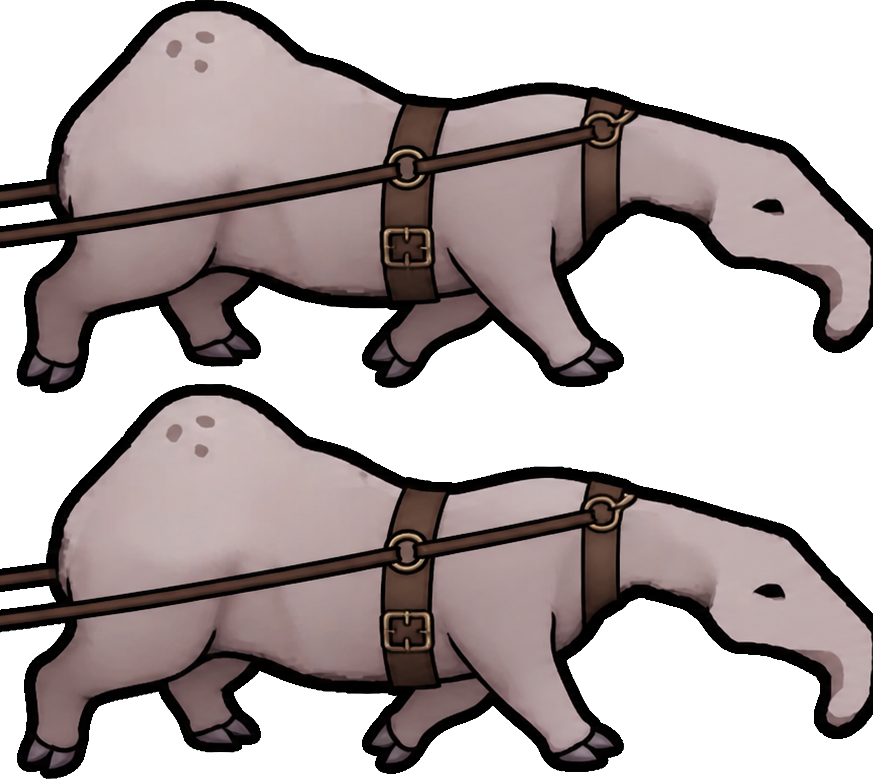
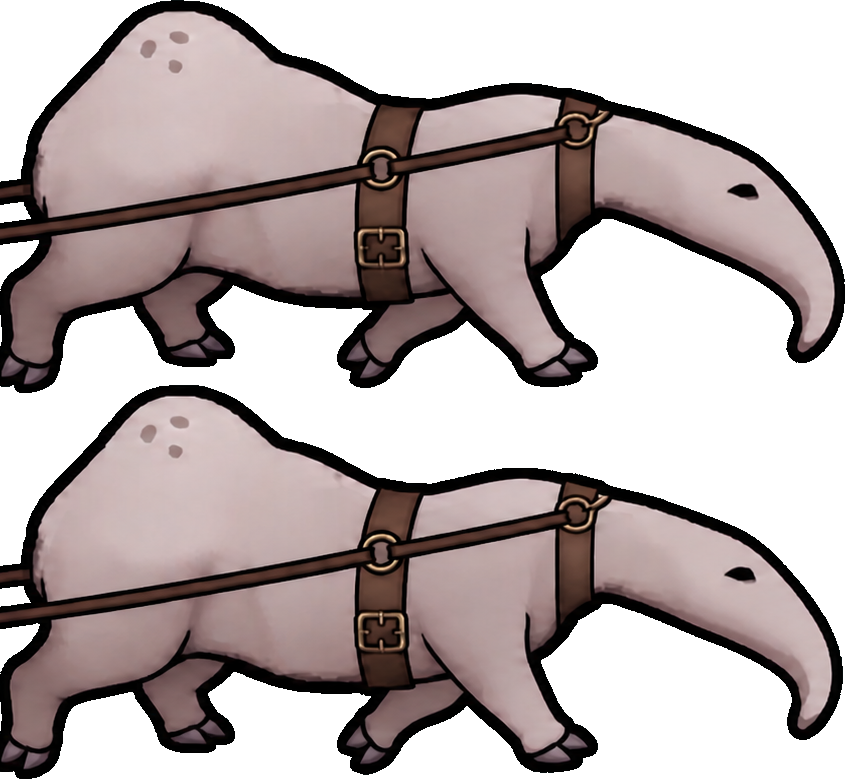
C3a fix 2: the east snout, and it was a SCALE failure not a crop
The muzzle was fully drawn at 1934 px and collapsed into a flat vertical wall at
the 104 px the sprite actually renders at — the owner's 'nose cut off'. Not
clipped by the canvas: the subject ends at x=489 of 512 with 22 px to spare.
Regenerated with a continuous tapering trunk; footprint bbox unchanged at
(8,168,490,293). recrop_east_v2.py now MEASURES the rigging constants instead of
leaving them hand-set.

Changed region(s): [[0.0, 0.0, 1.0, 1.0], [0.6154, 0.0924, 0.6462, 0.1232]]

diff --git a/src/Jawa/DesertVehicleReskin/Source/recrop_east_v2.py b/src/Jawa/DesertVehicleReskin/Source/recrop_east_v2.py
@@ -1,0 +1,174 @@
+#!/usr/bin/env python3
+"""Cut the east pair out of a raw generator frame, and MEASURE the three
+constants build_eopie_sled_east.py needs, instead of leaving them hand-tuned.
+
+WHY THIS EXISTS. The first east pair was cut and its constants
+(ANIMAL_CY_FRACS, ATTACH_X_FRAC) were measured by hand and written into the
+build script. That is fine once and a trap twice: any regenerated pair has a
+different silhouette, so the hand numbers silently point at the wrong part of
+the new animal — the traces attach to a shoulder that has moved. This script
+re-derives them from the pixels every time, so a regeneration costs one run
+instead of one careful remeasure.
+
+WHAT IT DOES
+  1. chroma-keys the raw's flat #00ff00 to real alpha (via the shared
+     skills/generating-images/scripts/chroma_key.py, same threshold path the
+     first cut used — the cut is not a second, divergent implementation).
+  2. crops to the subject's alpha bbox. That is exactly how the shipped
+     eopie_pair_gen_east.png was cut: raw subject x 462-1334, y 19-797 is
+     873x779, its committed size to the pixel.
+  3. splits the subject into its two animals by finding the empty rows between
+     them, and reports each one's vertical centre as a fraction of the crop's
+     height -> ANIMAL_CY_FRACS.
+  4. finds the collar — the rightmost harness-brown column that still has
+     animal above and below it — and reports it as a fraction of the crop's
+     width -> ATTACH_X_FRAC.
+
+⚠ It does NOT write the build script. It prints the constants; you paste them,
+and you look at the numbers first. A measurement that moved a long way from the
+old value means the generator drifted more than the muzzle, which is a review
+finding, not a paste.
+
+Run:  /home/mandrake/.venvs/art/bin/python Source/recrop_east_v2.py \
+          Source/art/raw/sled_east_raw_v2.png Source/art/eopie_pair_gen_east_v2.png
+      (Pillow is not on the system python here; that venv has it.)
+"""
+
+import os
+import subprocess
+import sys
+import tempfile
+
+from PIL import Image
+
+HERE = os.path.dirname(os.path.abspath(__file__))
+REPO = os.path.abspath(os.path.join(HERE, "..", "..", "..", ".."))
+CHROMA = os.path.join(REPO, "skills", "generating-images", "scripts",
+                      "chroma_key.py")
+
+# Harness leather, from the build scripts. Used only to FIND the collar, never
+# to paint anything.
+LEATHER = (99, 65, 24)
+LEATHER_TOL = 60
+
+
+def _keyed(raw_path: str) -> Image.Image:
+    """Chroma-key via the shared script so this cut matches the first one."""
+    tmp = os.path.join(tempfile.gettempdir(), "east_keyed.png")
+    subprocess.run([sys.executable, CHROMA, "--input", raw_path, "--out", tmp],
+                   check=True, capture_output=True)
+    return Image.open(tmp).convert("RGBA")
+
+
+def _animal_bands(img: Image.Image):
+    """Row runs that contain animal. The traces cross the whole width, so a row
+    is only 'animal' if it is thick — a trace is a handful of px, a body is
+    hundreds."""
+    px = img.load()
+    w, h = img.size
+    counts = [sum(1 for x in range(w) if px[x, y][3] > 8) for y in range(h)]
+    thick = max(counts) * 0.25
+    bands, run = [], None
+    for y, c in enumerate(counts):
+        if c >= thick and run is None:
+            run = y
+        elif c < thick and run is not None:
+            bands.append((run, y - 1))
+            run = None
+    if run is not None:
+        bands.append((run, h - 1))
+    return bands
+
+
+def _body_left(img: Image.Image) -> int:
+    """First column that is a BODY rather than a rope."""
+    px = img.load()
+    w, h = img.size
+    counts = [sum(1 for y in range(h) if px[x, y][3] > 8) for x in range(w)]
+    thick = max(counts) * 0.30
+    for x, c in enumerate(counts):
+        if c >= thick:
+            return x
+    return 0
+
+
+def _is_leather(r: int, g: int, b: int) -> bool:
+    """Harness brown, and NOT the black keyline's anti-aliased edge.
+
+    ⚠ Distance-to-LEATHER alone is not enough and got this wrong once: a soft
+    keyline pixel like (60,50,45) sits inside a 60-wide box around (99,65,24)
+    and reported the collar as being out on the snout tip. Brown is a HUE, so
+    test the hue — warm, and clearly warmer than it is blue.
+    """
+    return (abs(r - LEATHER[0]) < LEATHER_TOL
+            and abs(g - LEATHER[1]) < LEATHER_TOL
+            and abs(b - LEATHER[2]) < LEATHER_TOL
+            and r > g > b and (r - b) > 30)
+
+
+def _collar_x(img: Image.Image, band) -> int:
+    """Rightmost leather column inside a band — the collar, where a trace ends."""
+    px = img.load()
+    w, _ = img.size
+    top, bot = band
+    best = None
+    for x in range(w - 1, -1, -1):
+        for y in range(top, bot + 1):
+            r, g, b, a = px[x, y]
+            if a < 128:
+                continue
+            if _is_leather(r, g, b):
+                best = x
+                break
+        if best is not None:
+            break
+    return best if best is not None else w // 2
+
+
+def main() -> None:
+    raw = sys.argv[1] if len(sys.argv) > 1 else os.path.join(
+        HERE, "art", "raw", "sled_east_raw_v2.png")
+    out = sys.argv[2] if len(sys.argv) > 2 else os.path.join(
+        HERE, "art", "eopie_pair_gen_east_v2.png")
+    # A relative path is resolved against the CWD first and only then against
+    # this file's directory, so `Source/art/...` from the mod root and
+    # `art/...` from Source/ both work. Joining HERE unconditionally produced
+    # `Source/Source/art/...` and a confusing chroma_key failure.
+    def _resolve(p):
+        if os.path.isabs(p) or os.path.exists(p):
+            return os.path.abspath(p)
+        return os.path.join(HERE, p)
+
+    raw, out = _resolve(raw), _resolve(out)
+
+    keyed = _keyed(raw)
+    bbox = keyed.getchannel("A").point(lambda v: 255 if v > 8 else 0).getbbox()
+    print(f"raw {keyed.size}  subject bbox {bbox}")
+    # ⚠ The subject bbox is NOT the crop. The two traces run off the raw's left
+    # edge, so the bbox always starts at x=0 and would drag ~460 px of rope into
+    # the pair — which the build script then scales down along with the animals
+    # and draws its own traces over. The first cut dropped them (raw x 462-1334
+    # = the committed 873 px exactly); this reproduces that by cutting at the
+    # first column thick enough to be a body rather than a rope.
+    left = _body_left(keyed)
+    bbox = (left, bbox[1], bbox[2], bbox[3])
+    print(f"body-only crop box {bbox}  (dropped {left} px of trace)")
+    crop = keyed.crop(bbox)
+    crop.save(out)
+    w, h = crop.size
+    print(f"wrote {os.path.normpath(out)}  {w}x{h}  aspect {w / h:.4f}")
+
+    bands = _animal_bands(crop)
+    print(f"animal bands (rows): {bands}")
+    if len(bands) != 2:
+        print("⚠  expected exactly 2 animals; check the image before pasting")
+    fracs = tuple(round(((t + b) / 2) / h, 4) for t, b in bands)
+    print(f"ANIMAL_CY_FRACS = {fracs}")
+
+    collars = [_collar_x(crop, b) for b in bands]
+    print(f"collar columns: {collars}")
+    print(f"ATTACH_X_FRAC = {round(sum(collars) / len(collars) / w, 4)}")
+
+
+if __name__ == "__main__":
+    main()

diff --git a/src/Jawa/DesertVehicleReskin/Source/build_eopie_sled_east.py b/src/Jawa/DesertVehicleReskin/Source/build_eopie_sled_east.py
@@ -81,10 +81,16 @@ BAND_CY = 245           # centre of the donor animal band (y 200-291)
 
 # The two animals' vertical centres, as fractions of the pair's own height, so
 # the rigging follows the art if the pair is regenerated at another size.
-ANIMAL_CY_FRACS = (0.2715, 0.7657)
-# Where a trace meets an animal, along the pair's width. The collar sits forward
-# on the body, so this is well to the right of centre.
-ATTACH_X_FRAC = 0.62
+# ⚠ MEASURED, not hand-set — `Source/recrop_east_v2.py` re-derives these from
+# the cut pair. The v1 hand values were (0.2715, 0.7657) and the regenerated
+# pair measures (0.2709, 0.7657), which is also the evidence that the muzzle
+# regeneration did not drift the animals vertically.
+ANIMAL_CY_FRACS = (0.2709, 0.7657)
+# Where a trace meets an animal, along the pair's width: the rightmost harness
+# leather in each band, i.e. the collar ring itself. The v1 value of 0.62 was
+# eyeballed and sat behind the collar on the barrel; it did not show because the
+# traces are drawn under the animal, but it moved with every regeneration.
+ATTACH_X_FRAC = 0.7189
 
 LEATHER_MID = (99, 65, 24)
 LEATHER_HI = (115, 93, 57)
@@ -152,6 +158,22 @@ def _premultiplied_resize(img, w, h):
 
 
 def main():
+    # Optional overrides so a regenerated pair can be built to a scratch path
+    # and compared at sprite scale BEFORE it replaces the shipped texture.
+    #   build_eopie_sled_east.py [pair.png [out.png [cy0,cy1 [attach_x_frac]]]]
+    # Defaults are the shipped values, so a bare run is unchanged.
+    global PAIR, OUT, OUT_MASK, ANIMAL_CY_FRACS, ATTACH_X_FRAC
+    argv = sys.argv[1:]
+    if len(argv) >= 1:
+        PAIR = os.path.abspath(argv[0])
+    if len(argv) >= 2:
+        OUT = os.path.abspath(argv[1])
+        OUT_MASK = OUT.replace(".png", "m.png")
+    if len(argv) >= 3:
+        ANIMAL_CY_FRACS = tuple(float(v) for v in argv[2].split(","))
+    if len(argv) >= 4:
+        ATTACH_X_FRAC = float(argv[3])
+
     art = Image.open(SRC_ART).convert("RGBA")
     if art.size != (CANVAS, CANVAS):
         sys.exit(f"unexpected source canvas {art.size}")
